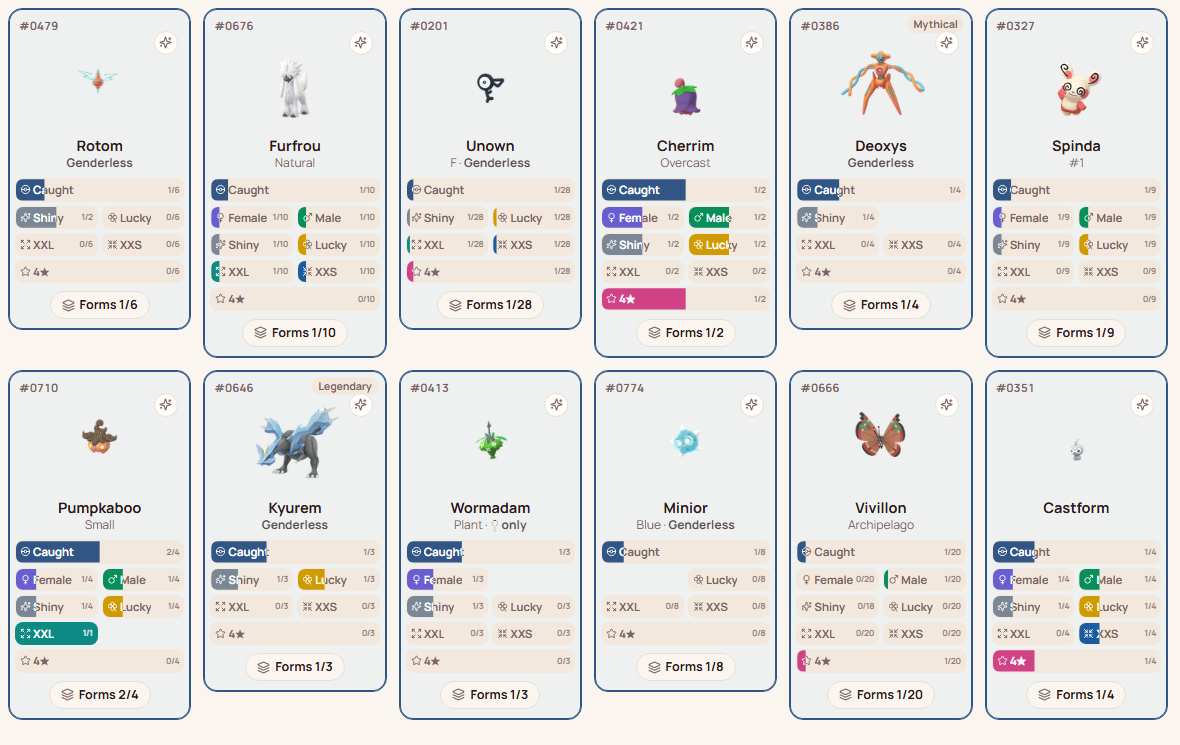
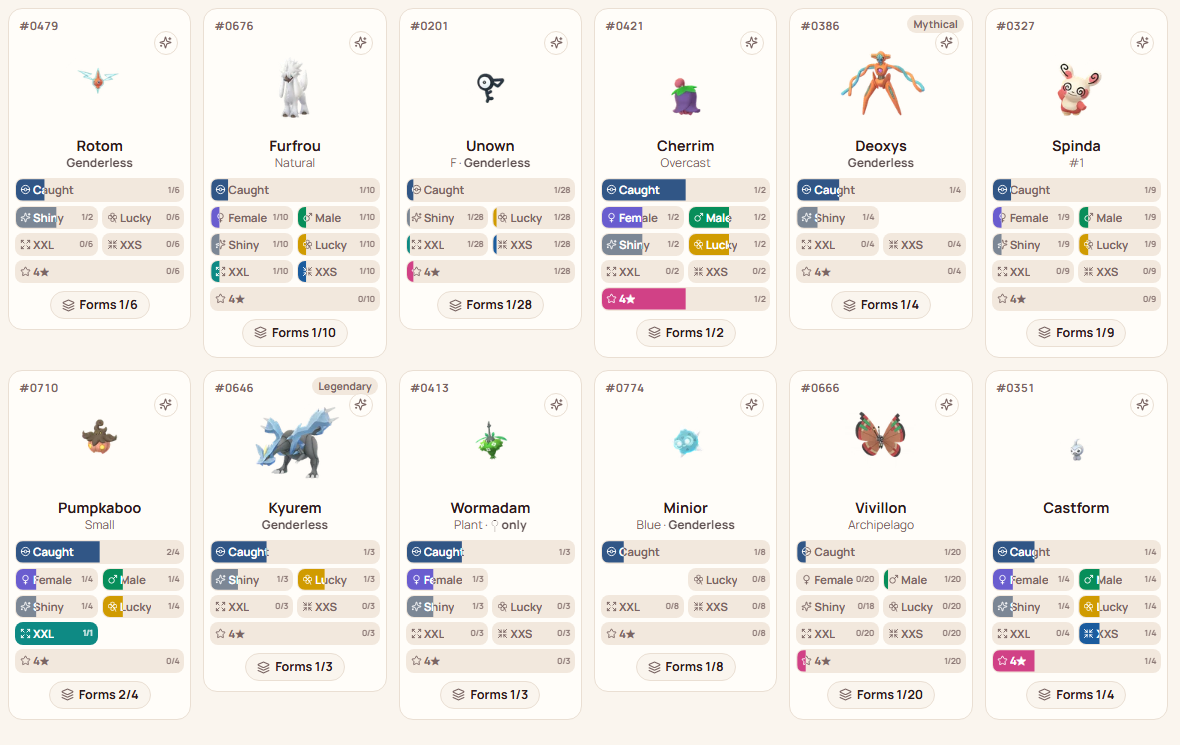
Form-tracked cards: the filled boxes with counts are the normal look (her pick); with a tab on just that box; the card is marked only when every form has it

diff --git a/site/js/app.js b/site/js/app.js
@@ -163,17 +163,18 @@ const GENDER_WORDS = {male: "♂ only", female: "♀ only", none: "Genderless"};
 // forms (Shiny 3/6) and the card opens its page (Pumpkaboo and Urshifu added 15 Nov; Sinistea and Polteageist undecided), where every form has its own boxes. Arceus left for when it's out (her call).
 const FORM_SPECIES = new Set([150, 351, 386, 413, 479, 483, 484, 487, 492, 550, 641, 642, 645, 646, 649, 710, 711, 718, 720, 741, 745, 774, 800, 849, 892, 905,
   201, 327, 412, 421, 422, 423, 585, 586, 647, 666, 669, 670, 671, 676, 925, 931, 978, 982]);
-const FORM_LOOK = new URLSearchParams(location.search).get("formcards");   // TRIAL (15 Nov): ?formcards=bar|count|dots|fill, looks for her to pick from
-function formBoxes(lead, forms){
+// her pick of the looks (15 Nov, her idea): each box fills up in its colour as she gets its forms, with the count (Shiny 1/4);
+// the filled part is a copy of the box in white words, clipped; every form got = the full box. With a filter tab on, just that box.
+function formBoxes(lead, forms, only){
   // every box, counted over her forms that can have it: got/out of; a box no form can have isn't shown
   const out = forms.filter(f => f.released);
   const B = (t, cls, icon, label, can) => {
+    if (only && !only.includes(t)) return "";
     const fs = out.filter(can); if (!fs.length) return "";
     const got = fs.filter(f => has(dk(f), t)).length, all = got === fs.length;
-    const dots = fs.length <= 10 ? `<i class="dots">${fs.map(f => `<i${has(dk(f), t) ? ` class="on"` : ""}></i>`).join("")}</i>` : "";
-    const inner = `${ic(icon)}<span>${esc(label)}</span>${["count", "fill"].includes(FORM_LOOK) ? `<b>${got}/${fs.length}</b>` : FORM_LOOK === "dots" && dots ? dots : ""}`;
-    return `<a class="tk fb ${cls}${got && !all ? " some" : ""}" href="${pageOf(lead)}" aria-pressed="${all}" title="${attr(`${label}: ${got} of ${fs.length} forms`)}" style="--p:${Math.round(got / fs.length * 100)}%">` +
-      inner + (FORM_LOOK === "fill" && got && !all ? `<span class="fill" aria-hidden="true">${inner}</span>` : "") + `</a>`;   // fill: the box fills in its colour, white words on the filled part
+    const inner = `${ic(icon)}<span>${esc(label)}</span><b>${got}/${fs.length}</b>`;
+    return `<a class="tk fb ${cls}" href="${pageOf(lead)}" aria-pressed="${all}" title="${attr(`${label}: ${got} of ${fs.length} forms`)}" style="--p:${Math.round(got / fs.length * 100)}%">` +
+      inner + (got && !all ? `<span class="fill" aria-hidden="true">${inner}</span>` : "") + `</a>`;
   };
   const megaT = [...new Set(out.flatMap(f => (f.mega || []).map(m => m.t)))];
   const rows = [
@@ -186,8 +187,11 @@ function formBoxes(lead, forms){
     [B("sd", "sd", "shadow", "Shadow", f => !!f.shadow), B("pu", "pu", "purified", "Purified", f => !!f.shadow)],
     [B("h", "h", "star", "4★", () => true)],
   ];
-  return `<div class="boxgrid fbs fb-${FORM_LOOK}">` + rows.filter(r => r.some(Boolean)).map(r => r.length === 1 ? r[0].replace('class="tk ', 'class="tk wide ') : (r[0] || "<span></span>") + (r[1] || "<span></span>")).join("") + `</div>`;
+  if (only) { const one = rows.flat().filter(Boolean).join(""); return one ? `<div class="ticks big fbs">${one}</div>` : ""; }
+  return `<div class="boxgrid fbs">` + rows.filter(r => r.some(Boolean)).map(r => r.length === 1 ? r[0].replace('class="tk ', 'class="tk wide ') : (r[0] || "<span></span>") + (r[1] || "<span></span>")).join("") + `</div>`;
 }
+// a form-tracked card is marked (got) only when every form that can has it: caught, or with a tab on, that tab's box
+const formsGot = (forms, tab) => { const fs = forms.filter(f => f.released && (!tab || tab.applies(f))); return fs.length > 0 && fs.every(f => tab ? tab.have(f) : caught(f)); };
 function boxes(e){
   // a fixed two-column grid, so every box has the same place on every card (her point, 9 Nov: the ragged rows looked
   // bizarre), in the game's Pokédex order like everything else (her rule, 12 Nov): Caught · Female | Male · Shiny | Lucky ·
@@ -295,12 +299,13 @@ function card(e, more = "", inForms = false, forms = null){
   const gw = GENDER_WORDS[e.gender];
   // the card is marked when she has it: caught, or with a tab on, that tab's box, in its colour (her call, 9 Nov)
   const tab = !showAllBoxes && BOXF.find(x => x.k === prefs.work);
-  const got = tab ? tab.applies(e) && tab.have(e) : caught(e);
+  const byForm = forms && FORM_SPECIES.has(e.dex);
+  const got = byForm ? formsGot(forms, tab) : tab ? tab.applies(e) && tab.have(e) : caught(e);
   return `<div class="card${e.released ? "" : " out-not"}${got ? " got" : ""}${inForms ? " informs" : ""}" data-id="${attr(e.id)}"${got ? ` style="--hl:var(${HL[tab ? tab.k : "caught"]})"` : ""}>` +
     `<span class="no">#${pad(e.dex)}</span>` + (flags.length ? `<span class="flags">${flags.map(f => `<span>${esc(f)}</span>`).join("")}</span>` : "") +
     pic(e, dk(e)) +
     `<a class="nm" href="${pageOf(e)}" title="Open ${attr(e.name)}’s page">${esc(e.name)}</a><small class="fm">${esc(e.form || "")}${e.form && gw ? " · " : ""}${gw ? `<span class="gd">${esc(gw)}</span>` : ""}</small>` +
-    (forms && FORM_LOOK && FORM_SPECIES.has(e.dex) && !onlyTicks(e) ? formBoxes(e, forms) : boxes(e)) + more + `</div>`;
+    (byForm ? formBoxes(e, forms, onlyTicks(e)) : boxes(e)) + more + `</div>`;
 }
 
 // ---------- the banner and sidebar look: “Colours + parade” (her pick, 10 Nov, of the trial looks): each region's colour in

diff --git a/site/site.css b/site/site.css
@@ -743,33 +743,18 @@ a.formsbtn{text-decoration:none}
 .fastset .fastgrid{display:flex;flex-wrap:wrap;gap:6px}
 .fastset .fc{width:76px}
 
-/* TRIAL (15 Nov): a form-tracked Pokémon's card counts its forms on each box (?formcards=bar|tint|dots); all forms got = the full box */
-.tk.fb{text-decoration:none;position:relative;overflow:hidden}
-.tk.fb b{margin-left:auto;font-size:9.5px;font-weight:700;opacity:.8;flex:none;letter-spacing:-.2px}
-.fb-count .tk.fb{gap:2px;padding:2px 4px}
+/* a form-tracked Pokémon's card (her pick, 15 Nov): each box fills up in its colour as she gets its forms, with the count;
+   the filled part is a white-text copy of the box, clipped to how far it's got; every form got = the full box */
+.tk.fb{text-decoration:none;position:relative;overflow:hidden;gap:2px;padding:2px 4px}
+.tk.fb .i{width:11px;height:11px}
+.tk.fb span{letter-spacing:-.15px}
+.tk.fb b{margin-left:auto;font-size:8.5px;font-weight:700;opacity:.85;flex:none;letter-spacing:-.4px}
 .tk.fb.c{--bc:var(--caught)}.tk.fb.f{--bc:var(--female)}.tk.fb.m{--bc:var(--male)}.tk.fb.s{--bc:var(--shiny)}.tk.fb.l{--bc:var(--lucky)}
 .tk.fb.h{--bc:var(--hundo)}.tk.fb.sd{--bc:var(--shadow)}.tk.fb.pu{--bc:var(--purified)}.tk.fb.dx{--bc:var(--dynamax)}.tk.fb.gx{--bc:var(--gmax)}
 .tk.fb.mg{--bc:var(--mega)}.tk.fb.xl{--bc:var(--xxl)}.tk.fb.xs{--bc:var(--xxs)}
-.fb-bar .tk.fb::after,.fb-dots .tk.fb:not(:has(.dots))::after{content:"";position:absolute;left:0;bottom:0;height:3px;width:var(--p);background:var(--bc)}
-.tk.fb[aria-pressed="true"]::after{display:none}
-.tk.fb .dots{display:flex;flex-wrap:wrap;gap:2px;margin-left:auto;max-width:46%;justify-content:flex-end}
-.tk.fb .dots i{width:5px;height:5px;border-radius:50%;background:color-mix(in srgb,var(--muted) 35%,transparent)}
-.tk.fb .dots i.on{background:var(--bc)}
-.tk.fb[aria-pressed="true"] .dots i{background:#fff}
-.fb-bar .tk.fb::before,.fb-dots .tk.fb:not(:has(.dots))::before{content:"";position:absolute;left:0;right:0;bottom:0;height:4px;background:color-mix(in srgb,var(--bc) 16%,transparent)}
-.fb-bar .tk.fb::after,.fb-dots .tk.fb:not(:has(.dots))::after{height:4px}
-.tk.fb[aria-pressed="true"]::before{display:none}
-.fb-dots .tk.fb{flex-wrap:wrap;row-gap:2px;padding-bottom:4px}
-.fb-dots .tk.fb .dots{flex-basis:100%;max-width:none;margin-left:0;justify-content:flex-start;gap:3px;padding-left:1px}
-.fb-dots .tk.fb .dots i{width:6px;height:6px}
-.fb-count .tk.fb b{font-size:9px;letter-spacing:-.3px}
-.fb-count .tk.fb .i{width:11px;height:11px}
-/* fill (her idea, 15 Nov): the whole box fills up in its colour, numbers too; the filled part is a white-text copy of the box, clipped */
-.fb-fill .tk.fb{gap:2px;padding:2px 4px}
-.fb-fill .tk.fb b{font-size:9px;letter-spacing:-.3px}
-.fb-fill .tk.fb .i{width:11px;height:11px}
 .tk.fb .fill{position:absolute;inset:0;display:flex;align-items:center;gap:2px;padding:2px 4px;background:var(--bc);color:#fff;
   clip-path:inset(0 calc(100% - var(--p)) 0 0);pointer-events:none}
 .tk.fb .fill span{overflow:hidden;text-overflow:ellipsis;white-space:nowrap}
-.fb-fill .tk.fb span,.fb-count .tk.fb span{letter-spacing:-.15px}
-.fb-fill .tk.fb b,.fb-count .tk.fb b{font-size:8.5px;letter-spacing:-.4px}
+.ticks.big .tk.fb,.ticks.big .tk.fb .fill{padding:4px 14px;gap:6px}
+.ticks.big .tk.fb .i{width:12px;height:12px}
+.ticks.big .tk.fb b{font-size:11px;margin-left:8px}

diff --git a/tests/e2e/site.test.js b/tests/e2e/site.test.js
@@ -140,6 +140,24 @@
     eq(location.hash, "#p-25");
   });
 
+  test("a Pokémon whose forms she tracks one by one: one card whose boxes count her forms and fill up (her pick, 15 Nov)", async () => {
+    prefs.work = "all"; prefs.workShow = "all"; await go("#gen-4");
+    const card = [...view().querySelectorAll(".card")].find(c => c.querySelector(".nm").textContent === "Rotom");
+    const forms = ENTRIES.filter(e => e.dex === 479 && e.released);
+    const n = forms.filter(e => has(dk(e), "c")).length;
+    eq(card.querySelector(".tk.fb.c").title, `Caught: ${n} of ${forms.length} forms`);
+    eq(card.querySelector(".tk.fb.c b").textContent, `${n}/${forms.length}`);
+    eq(!!card.querySelector(".tk.fb.c .fill"), n > 0 && n < forms.length, "partly got: the filled part is drawn");
+    eq(card.classList.contains("got"), n === forms.length, "marked only when every form is caught");
+    ok(card.querySelector(".tk.fb.c").getAttribute("href") === "#p-479", "a box opens its page");
+    const bulba = [...view().querySelectorAll(".card")].find(c => c.querySelector(".nm").textContent === "Turtwig");
+    ok(bulba && !bulba.querySelector(".tk.fb") && bulba.querySelector("button.tk"), "other Pokémon keep their tick boxes");
+    prefs.work = "shiny"; route();
+    const one = [...view().querySelectorAll(".card")].find(c => c.querySelector(".nm").textContent === "Rotom");
+    ok(one.querySelectorAll(".tk.fb").length === 1 && one.querySelector(".tk.fb.s"), "with a tab on: just that box, counted");
+    prefs.work = "all";
+  });
+
   test("a regional form is a Pokémon of its own: its own card and page, after the usual one (her call, 14 Nov)", async () => {
     await go("#p-58");
     ok(!document.querySelector(".formpick"), "Growlithe's page has no form picker");

diff --git a/site/index.html b/site/index.html
@@ -11,7 +11,7 @@
 <link rel="icon" href="icon-192.png" sizes="192x192" type="image/png">
 <link rel="apple-touch-icon" href="icon-192.png">
 <meta name="theme-color" content="#5A1820">
-<link rel="stylesheet" href="site.css?v=8b923b06">
+<link rel="stylesheet" href="site.css?v=782ae6dd">
 </head>
 <body>
 <aside class="side" id="side" aria-label="Pokédex">
@@ -24,6 +24,6 @@
 
 <script src="js/icons.js?v=8b203804"></script>
 <script src="js/data.js?v=22a6ef67"></script>
-<script src="js/app.js?v=d0dd745a"></script>
+<script src="js/app.js?v=a7e6125a"></script>
 </body>
 </html>

diff --git a/CLAUDE.md b/CLAUDE.md
@@ -25,7 +25,7 @@ A private Pokédex for Jemma’s Pokémon GO collection: every Pokémon and form
   - `events.json`: in-person European GO events (from research/data/european-events.json, newest first): `id`, `name`, `city`, `country`, `start`, `end`, `background` (null = none), `backgroundPokemon` (species names), `debutShinies`, `sources`, `unsure`. The `unsure` notes stay off the site.
   - `special-backgrounds.json`: the game’s special backgrounds that aren’t tied to a place (GO Fest Global, GO Tour, Community Days, seasons…), 43 global ones from research/data/special-backgrounds.json (10 Nov; the in-person ones outside Europe left out): `id` (sb-…), `name`, `start`, `end`, `scope`, `card` (the game’s sb_ file), `backgroundPokemon`, optional `cards` (the exact entry or costume ids the background's cards show, one card each, e.g. every hat Pikachu; events.json takes it too; a background tick's key is `b:<event id>:<entry or costume id>`, a plain Pokémon's id being its number), `note` (how it was got, shown), `unsure` (kept off the site). Ticked “I took part” (in `went`, like “I went”); until then their cards are faded with no boxes (her call, 10 Nov). Events page tab “Special backgrounds”; Pokémon pages list them with the in-person ones. Events only matter for backgrounds (her call, 10 Nov; costumes are tracked on the Costumes page). Only events in `went` that have background Pokémon exist in the app at all (Events page, Pokémon pages, Home, sidebar: app.js `myEvents`); the rest stay in data/ but are never shown (her call, 10 Nov). She tells Claude which she went to; Claude adds them to `went` through the server. Costumes the same (her call, 10 Nov): only ones in `costumes` exist anywhere (Costumes page, Pokémon pages, Home: app.js `myCostumes`); no toggle and no “Collect this” button; she tells Claude which she collects; costumes from events she took part in are included by default. A costume’s Shiny is a bonus, not counted, like Shiny Shadow.
   - `costume-events.json`: the event each costume code first came at (Bulbapedia's Event Pokémon (GO) list, word for word, 13 Nov; copy of research/data/costume-events.json; `parts` where one code's Pokémon came at different events; `event` null = not from an event, e.g. a GO Battle League reward). Every costume sits with its event on the Events and costumes page (her point, 13 Nov: you only get costumes at events): with her own event where it's the same one (a costume first seen at any in-person GO Fest goes with the GO Fest she went to that year; an in-person GO Wild Area's with that year's Global), otherwise a set of its own named after the event.
-  - `collection/go.json`: **her ticks**, written by tools/serve.py as she clicks: `have` {key: [ticks]} with keys `d:<entry id>`, `c:<costume id>`, `b:<event id>:<dex>` and ticks `c` caught (on every Pokémon; ticking any other box ticks it too), `cm`/`cf` male/female (wherever that gender exists, one-gender species included), `s` shiny, `l` lucky, `h` 4★, `sd` shadow, `pu` purified, `dx` Dynamax, `gx` Gigantamax, `mg` Mega (or Primal), `mx`/`my` Mega X/Y (a full box like Dynamax, her call 10 Nov: `mega` in dex.json, 64 out, Dittobase + Leek Duck; `megaLater` = a Mega not out in GO yet), `xl`/`xs` XXL/XXS (12 Nov, her ask: the game's Pokédex has tabs for both; any Pokémon can be either; on the page strip the picture is shown bigger/smaller), `ss` Shiny Shadow (a bonus box on the Pokémon page only, 10 Nov: not counted, not on cards or filters, like a costume; where `shadowShiny` in dex.json: every Shadow whose shiny is out, the rule since 3 March 2026 per Serebii and Bulbapedia; Dittobase’s own flags were out of date); `went` [event ids]; `costumes` [costume ids she collects]. Any box ticked counts as caught. Her rule (9 Nov): one of each gender and one shiny, kept apart (no shiny ♂/♀). Sections: regional forms sit under their region (app.js `REGION_GEN`), and Hisui is its own section (Hisuian forms plus #899–905) between Galar and Paldea. Counts: “Pokémon” = species with any entry caught, a regional form counting as a Pokémon of its own (14 Nov: Every Pokémon is out of 1,080); region totals and Fast tick count each box out of every Pokémon that could ever have it, out in GO yet or not, as the game's Pokédex does (her rule, 12 Nov: only the impossible is left out, app.js `POSSIBLE`: Lucky for untradeable mythicals (Meltan and Melmetal can be traded), G-Max outside `GMAX_SPECIES` and for every regional form, Mega for ones with no Mega, a gender a species can't be; XXL/XXS for Pumpkaboo/Gourgeist sizes that are fixed; Shadow is possible for all, Shadow Darkrai exists); Meltan/Melmetal stay in Alola (her call; GO puts them under no region); “forms” = entries of species with more than one entry out. Filters (her pick, 9 Nov): tabs for the box she’s working on (no Caught or Everything tab: nothing selected shows every box; clicking the selected tab again unselects it), then Still need / Have / All; the cards show only that box. Every box is filtered the same way (Male and Female too): never add a separate drop-down for one of them. Filter line (her layout): “Filter”, the tabs, × Clear, and a “Hide ones I have” switch on the far right (was “Not caught”; renamed 10 Nov as it was unclear), all on one line at 1600px and 1280px (check after any change). Everything follows the game's Pokédex order (her rule, 13 Nov): Caught, Female, Male, Shiny, Lucky, XXL, XXS, Dynamax, Gigantamax, Mega, Shadow, Purified, 4★ (cards, filters, totals, Fast tick, the page strip). Always “Gigantamax” in full (her ask, 14 Nov), except “G-Max” in the small box on the page strip, where the full word doesn’t fit (her pick, 14 Nov). A strip label that still doesn’t fit (at 1280) drops its icon: app.js `fitLabels`. Pictures show the normal colours; the shiny only on the Shiny tab or with the ✨ button (her question, 13 Nov: once she ticked her shinies nearly every picture had turned shiny). Box rows on a card follow that order in pairs, every box with an icon; check no row wraps at 1600px or 1280px after any change. Clicking anywhere else on a card (not a box or button) opens that Pokémon’s page at that form (her change, 10 Nov; it used to tick Caught). The name on a card is plain text, not underlined (her call). A card is marked (`got`, border and tint) when she has it: caught with no tab on, or that tab’s box with one on, in the box’s colour. Lists show one card per Pokédex number (app.js `groupByNumber`), except that a regional form (Alolan, Galarian, Hisuian, Paldean) is a Pokémon of its own with its own card and page, `#p-58-hisuian` (her call, 14 Nov: Hisuian Growlithe apart from Growlithe; app.js `groupKey`; the three Paldean Tauros share one; Previous / Next go Growlithe, Hisuian Growlithe, Arcanine); each Pokémon has a page (#p-<number>, `pokemonPage`, laid out like a Sim’s page on her Sims site), opened from the name on its card or the small “Forms 3/28” button: type and gender chips alike (Female, Male or Genderless, 10 Nov), no ticks in the facts and no dates (her call: ticks looked like caught); facts say Available / Unavailable, or Not possible for what can never be (a mythical’s Lucky); a box that can never be isn’t shown at all, on cards or the page (her call, 10 Nov); Gigantamax is Not possible outside the 32 species with a Gigantamax form in the main games (regional forms too), Dynamax Not possible for Zacian, Zamazenta and Eternatus (app.js `GMAX_SPECIES`, `NO_DYNAMAX`); “Average height” and “Average weight”; no “I went” on a Pokémon’s page (she ticks events on the Events page), big picture (the game’s full-size picture from `site/sprites/big/`) with a row of small form pictures to pick the form shown, GO’s Pokédex text and the facts beside it, a strip of picture boxes to tick for that form (her pick, 10 Nov: each box shows the Pokémon as it looks that way: the shiny picture, the female picture, the game’s Gigantamax and Mega pictures; each on its own light background made from the game’s effect pictures in `site/variants/` (`tools/fetch_sprites.py --extras`): Lucky sparkles, Shiny sparkles in silvers, 4★ appraisal stars in pinks, Shadow flames, Purified light rays, Dynamax pale clouds, G-Max dark red clouds, Mega the GO Tour Mega background with white for black; not got = the Pokémon solid pale grey and the background part-greyed; never draw or recolour a symbol: her rule after the drawn Mega symbol; Shiny Shadow its own picture box under the evolution family), the evolution family (links open that form’s page), every form as a full card, costumes and backgrounds; Previous / Next at the top (← → keys too), so list cards never grow; the card shows the default form (`default`, e.g. Unown F); regional forms sit on their region’s page. Forms tracked one by one (her picks, 15 Nov: app.js `FORM_SPECIES`, Rotom, Unown, Furfrou…, Pumpkaboo, Urshifu; Arceus when it’s out; Sinistea/Polteageist undecided; Rockruff, Scatterbug, Spewpa left off on purpose: no real difference until they evolve) stay one card, whose boxes count her forms (trial looks `?formcards=bar|count|dots|fill`, `fill` her idea: the box fills in its colour with the count; her pick pending; `?only=<numbers>` lists just those for pictures). Tabs are only yes/no boxes; forms are not a tab (her point: forms are more Pokémon to list, not a box).
+  - `collection/go.json`: **her ticks**, written by tools/serve.py as she clicks: `have` {key: [ticks]} with keys `d:<entry id>`, `c:<costume id>`, `b:<event id>:<dex>` and ticks `c` caught (on every Pokémon; ticking any other box ticks it too), `cm`/`cf` male/female (wherever that gender exists, one-gender species included), `s` shiny, `l` lucky, `h` 4★, `sd` shadow, `pu` purified, `dx` Dynamax, `gx` Gigantamax, `mg` Mega (or Primal), `mx`/`my` Mega X/Y (a full box like Dynamax, her call 10 Nov: `mega` in dex.json, 64 out, Dittobase + Leek Duck; `megaLater` = a Mega not out in GO yet), `xl`/`xs` XXL/XXS (12 Nov, her ask: the game's Pokédex has tabs for both; any Pokémon can be either; on the page strip the picture is shown bigger/smaller), `ss` Shiny Shadow (a bonus box on the Pokémon page only, 10 Nov: not counted, not on cards or filters, like a costume; where `shadowShiny` in dex.json: every Shadow whose shiny is out, the rule since 3 March 2026 per Serebii and Bulbapedia; Dittobase’s own flags were out of date); `went` [event ids]; `costumes` [costume ids she collects]. Any box ticked counts as caught. Her rule (9 Nov): one of each gender and one shiny, kept apart (no shiny ♂/♀). Sections: regional forms sit under their region (app.js `REGION_GEN`), and Hisui is its own section (Hisuian forms plus #899–905) between Galar and Paldea. Counts: “Pokémon” = species with any entry caught, a regional form counting as a Pokémon of its own (14 Nov: Every Pokémon is out of 1,080); region totals and Fast tick count each box out of every Pokémon that could ever have it, out in GO yet or not, as the game's Pokédex does (her rule, 12 Nov: only the impossible is left out, app.js `POSSIBLE`: Lucky for untradeable mythicals (Meltan and Melmetal can be traded), G-Max outside `GMAX_SPECIES` and for every regional form, Mega for ones with no Mega, a gender a species can't be; XXL/XXS for Pumpkaboo/Gourgeist sizes that are fixed; Shadow is possible for all, Shadow Darkrai exists); Meltan/Melmetal stay in Alola (her call; GO puts them under no region); “forms” = entries of species with more than one entry out. Filters (her pick, 9 Nov): tabs for the box she’s working on (no Caught or Everything tab: nothing selected shows every box; clicking the selected tab again unselects it), then Still need / Have / All; the cards show only that box. Every box is filtered the same way (Male and Female too): never add a separate drop-down for one of them. Filter line (her layout): “Filter”, the tabs, × Clear, and a “Hide ones I have” switch on the far right (was “Not caught”; renamed 10 Nov as it was unclear), all on one line at 1600px and 1280px (check after any change). Everything follows the game's Pokédex order (her rule, 13 Nov): Caught, Female, Male, Shiny, Lucky, XXL, XXS, Dynamax, Gigantamax, Mega, Shadow, Purified, 4★ (cards, filters, totals, Fast tick, the page strip). Always “Gigantamax” in full (her ask, 14 Nov), except “G-Max” in the small box on the page strip, where the full word doesn’t fit (her pick, 14 Nov). A strip label that still doesn’t fit (at 1280) drops its icon: app.js `fitLabels`. Pictures show the normal colours; the shiny only on the Shiny tab or with the ✨ button (her question, 13 Nov: once she ticked her shinies nearly every picture had turned shiny). Box rows on a card follow that order in pairs, every box with an icon; check no row wraps at 1600px or 1280px after any change. Clicking anywhere else on a card (not a box or button) opens that Pokémon’s page at that form (her change, 10 Nov; it used to tick Caught). The name on a card is plain text, not underlined (her call). A card is marked (`got`, border and tint) when she has it: caught with no tab on, or that tab’s box with one on, in the box’s colour. Lists show one card per Pokédex number (app.js `groupByNumber`), except that a regional form (Alolan, Galarian, Hisuian, Paldean) is a Pokémon of its own with its own card and page, `#p-58-hisuian` (her call, 14 Nov: Hisuian Growlithe apart from Growlithe; app.js `groupKey`; the three Paldean Tauros share one; Previous / Next go Growlithe, Hisuian Growlithe, Arcanine); each Pokémon has a page (#p-<number>, `pokemonPage`, laid out like a Sim’s page on her Sims site), opened from the name on its card or the small “Forms 3/28” button: type and gender chips alike (Female, Male or Genderless, 10 Nov), no ticks in the facts and no dates (her call: ticks looked like caught); facts say Available / Unavailable, or Not possible for what can never be (a mythical’s Lucky); a box that can never be isn’t shown at all, on cards or the page (her call, 10 Nov); Gigantamax is Not possible outside the 32 species with a Gigantamax form in the main games (regional forms too), Dynamax Not possible for Zacian, Zamazenta and Eternatus (app.js `GMAX_SPECIES`, `NO_DYNAMAX`); “Average height” and “Average weight”; no “I went” on a Pokémon’s page (she ticks events on the Events page), big picture (the game’s full-size picture from `site/sprites/big/`) with a row of small form pictures to pick the form shown, GO’s Pokédex text and the facts beside it, a strip of picture boxes to tick for that form (her pick, 10 Nov: each box shows the Pokémon as it looks that way: the shiny picture, the female picture, the game’s Gigantamax and Mega pictures; each on its own light background made from the game’s effect pictures in `site/variants/` (`tools/fetch_sprites.py --extras`): Lucky sparkles, Shiny sparkles in silvers, 4★ appraisal stars in pinks, Shadow flames, Purified light rays, Dynamax pale clouds, G-Max dark red clouds, Mega the GO Tour Mega background with white for black; not got = the Pokémon solid pale grey and the background part-greyed; never draw or recolour a symbol: her rule after the drawn Mega symbol; Shiny Shadow its own picture box under the evolution family), the evolution family (links open that form’s page), every form as a full card, costumes and backgrounds; Previous / Next at the top (← → keys too), so list cards never grow; the card shows the default form (`default`, e.g. Unown F); regional forms sit on their region’s page. Forms tracked one by one (her picks, 15 Nov: app.js `FORM_SPECIES`, Rotom, Unown, Furfrou…, Pumpkaboo, Urshifu; Arceus when it’s out; Sinistea/Polteageist undecided; Rockruff, Scatterbug, Spewpa left off on purpose: no real difference until they evolve) stay one card, whose boxes count her forms: each box fills up in its colour as she gets its forms, with the count, Shiny 1/4 (her idea and pick, 15 Nov; `formBoxes`); the card is marked only when every form has it; clicking opens the page, where each form has its own boxes (`?only=<numbers>` lists just those, for pictures). Tabs are only yes/no boxes; forms are not a tab (her point: forms are more Pokémon to list, not a box).
 - `research/`: notes (european-events.md; data/go-release-check.json, which species are out, checked 9 Nov 2026).
 - `imports/go-<date>/`: raw copies of what tools/import_go.py read (not in git).
 - `for-jemma/your-list.md`: everything waiting on her.

diff --git a/for-jemma/your-list.md b/for-jemma/your-list.md
@@ -3,7 +3,6 @@
 Everything waiting on you. **Do** = just do it; **Decide** = your call. Tell Claude when one’s done or decided and it comes off.
 
 ## Decide
-- **How cards show Pokémon whose forms you track one by one (15 Nov):** your picks (Rotom, Unown, Furfrou…, now with Pumpkaboo and Urshifu) stay one card, and every form gets its own boxes on its page. Latest look, your idea: each box fills up in its colour with the count, e.g. Shiny 1/4 (`for-jemma/form-cards-fill.png`; the earlier three in `form-cards-options.png`). Use it?
 - **Sinistea and Polteageist:** track their Antique forms one by one or not? (You’re undecided.) Rockruff, Scatterbug and Spewpa left off on purpose: no real difference until they evolve. Arceus when it’s out.
 - **Events and costumes (trial, 13 Nov):** one page instead of two: a timeline of sets with progress (`for-jemma/page-events-and-costumes.png`, one set: `page-one-event.png`). Keep, change or go back?
 - **Banners on every page (trial, 13 Nov):** maps on Home, Every Pokémon, Fast tick and each Pokémon page; event backgrounds on Events and costumes (`for-jemma/page-banners.png`).
@@ -16,6 +15,7 @@ Everything waiting on you. **Do** = just do it; **Decide** = your call. Tell Cla
 - **This weekend (14–15 Nov), GO Wild Area:** last chance for Modern Jacket Machamp.
 
 ## Done
+- Pokémon whose forms you track one by one (Rotom, Unown, Furfrou…, Pumpkaboo, Urshifu) stay one card; its boxes fill up in their colour with the count (Shiny 1/4), and each form has its own boxes on the Pokémon’s page. Your earlier ticks are mostly on one form each, so tick the rest there (15 Nov).
 - Regional forms (Alolan, Galarian, Hisuian, Paldean) listed apart, each with its own card and page, e.g. Hisuian Growlithe (`for-jemma/hisuian-growlithe-page.png`). Other forms (Unown, Rotom, Vivillon…) still one card each. Fast tick too: each regional form has its own square in its own region (14 Nov).
 - “Gigantamax” in full instead of “G-Max”: filters, banners, cards, Fast tick, Quick add; “G-Max” only in the small box on a Pokémon’s page (14 Nov).
 - Sidebar regions without numbers, as in GO (13 Nov).
